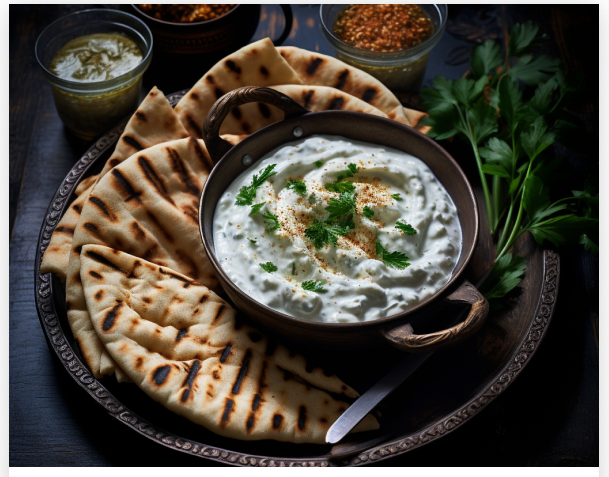
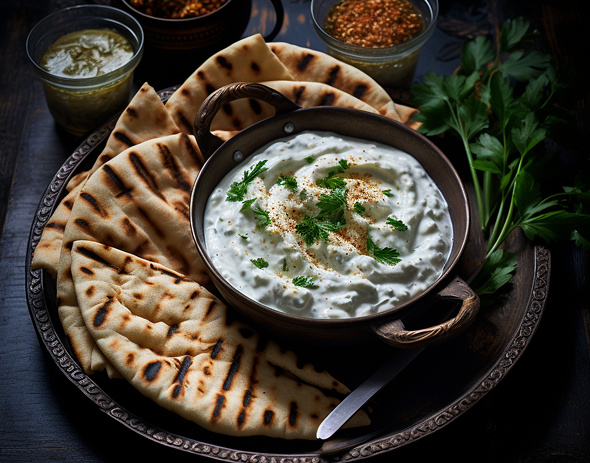
added clickability to the map in the contacts block and dynamic menu population with category‑based switching. fixed the display of review cards and the book now button.

diff --git a/menu/index.html b/menu/index.html
@@ -13,6 +13,7 @@
     <link rel="stylesheet" href="../style/fonts.css">
     <link rel="stylesheet" href="../style/home.css">
     <link rel="stylesheet" href="../style/menu.css">
+    <script src="https://ajax.googleapis.com/ajax/libs/jquery/3.7.1/jquery.min.js"></script>
 </head>
 <body>
     <header>
@@ -46,7 +47,7 @@
                     <p class="menu__item-title"></p>
                     <p class="menu__item-price"></p>
                 </figcaption>
-                <p class="menu__item-price" data-details="" data-kcal="">Подробнее</p>
+                <button type="button" class="menu__item-button" data-details="" data-kcal="">Подробнее</button>
             </div>
         </figure>
     </template>
@@ -55,71 +56,12 @@
         <section class="menu">
             <a class="menu__booking" href="../contact/index.html"></a>
             <div class="menu__navigation" id="topMenu">
-                <a class="menu__anchor" href="#">Основные блюда</a>
-                <a class="menu__anchor" href="#">Закуски и салаты</a>
-                <a class="menu__anchor" href="#">Десерты</a>
+                <a class="menu__anchor" href="?cat=mainCourse" data-cat="mainCourse">Основные блюда</a>
+                <a class="menu__anchor" href="?cat=salad" data-cat="salad">Закуски и салаты</a>
+                <a class="menu__anchor menu__anchor--disabled" data-cat="dessert" href="?cat=dessert">Десерты</a>
             </div>
-            <div class="menu__items">
-                <figure class="menu__item">
-                    <img class="menu__item-image" src="../assets/gallery/menu/d/17.png">
-                    <div class="menu__item-bottom">
-                        <figcaption class="menu__item-text">
-                            <p class="menu__item-title">Тыквенное наслаждение</p>
-                            <p class="menu__item-price">500₽</p>
-                        </figcaption>
-                        <button type="button" class="menu__item-button" data-details="Утонченный торт, гелато, эспрессо, пряные семечки и свежая земляника в гармонии в каждом кусочке." data-kcal="450">Подробнее</button>
-                    </div>
-                </figure>
-                <figure class="menu__item">
-                    <img class="menu__item-image" src="../assets/gallery/menu/d/16.png">
-                    <div class="menu__item-bottom">
-                        <figcaption class="menu__item-text">
-                            <p class="menu__item-title">Шоколадная симфония</p>
-                            <p class="menu__item-price">350₽</p>
-                        </figcaption>
-                        <button type="button" class="menu__item-button" data-details="Насладитесь роскошью шоколадного оливкового торта, смешанного с нежным лавандовым семифреддо, карамелизированным медом и взбитым кремом с оливковым маслом." data-kcal="550">Подробнее</button>
-                    </div>
-                </figure>
-                <figure class="menu__item">
-                    <img class="menu__item-image" src="../assets/gallery/menu/d/15.png">
-                    <div class="menu__item-bottom">
-                        <figcaption class="menu__item-text">
-                            <p class="menu__item-title">Тарт с кремом из кешью, карамельюи кумкватами</p>
-                            <p class="menu__item-price">500₽</p>
-                        </figcaption>
-                        <button type="button" class="menu__item-button" data-details="Роскошный тарт с кешью в карамельном масле, сопровождаемый свежестью цитрусового варенья, гелато с маслом из козьего молока и нежными маринованными кумкватами. В каждой порции - идеальное сочетание сладкого и освежающего." data-kcal="420">Подробнее</button>
-                    </div>
-                </figure>
-                <figure class="menu__item">
-                    <img class="menu__item-image" src="../assets/gallery/menu/d/14.png">
-                    <div class="menu__item-bottom">
-                        <figcaption class="menu__item-text">
-                            <p class="menu__item-title">Кокосовый крем-карамель с сливами и манго</p>
-                            <p class="menu__item-price">450₽</p>
-                        </figcaption>
-                        <button type="button" class="menu__item-button" data-details="Нежный кокосовый крем-карамель, дополненный сочными сливами и ароматным манго, завершается карамелизованным кокосовым хрустом. Это блюдо - путешествие в тропический рай, где каждый вкус - настоящее наслаждение." data-kcal="380">Подробнее</button>
-                    </div>
-                </figure>
-                <figure class="menu__item">
-                    <img class="menu__item-image" src="../assets/gallery/menu/d/33.png">
-                    <div class="menu__item-bottom">
-                        <figcaption class="menu__item-text">
-                            <p class="menu__item-title">Жареное мороженое с мусом из свежих ягод</p>
-                            <p class="menu__item-price">400₽</p>
-                        </figcaption>
-                        <button type="button" class="menu__item-button" data-details="Насладитесь уникальным десертом - жареным мороженым с мусом из свежих ягод, который мы создали для настоящих гурманов. Каждый кусочек хрустящей оболочки мороженого, сливается с ароматным мусом из отборных ягод, придают этому блюду невероятный вкусовой аккорд." data-kcal="380">Подробнее</button>
-                    </div>
-                </figure>
-                <figure class="menu__item">
-                    <img class="menu__item-image" src="../assets/gallery/menu/d/34.png">
-                    <div class="menu__item-bottom">
-                        <figcaption class="menu__item-text">
-                            <p class="menu__item-title">Медовая пахлава с грецкими орехами</p>
-                            <p class="menu__item-price">550₽</p>
-                        </figcaption>
-                        <button type="button" class="menu__item-button" data-details="Погрузитесь в восточные вкусы с нашей медовой пахлавой, усыпанной ароматными грецкими орехами. Каждый слой тонкого теста пропитан натуральным медом, а щедрая порция орехов добавляет этому десерту особый вкус и хрустящую текстуру." data-kcal="380">Подробнее</button>
-                    </div>
-                </figure>
+            <div class="menu__items"  id="menuItems">
+                
             </div>
         </section>
     </main>
@@ -146,5 +88,6 @@
             </div>
         </div>
     </footer>
+    <script async src="index.js"></script>
 </body>
 </html>

diff --git a/index.html b/index.html
@@ -12,6 +12,7 @@
     <link rel="stylesheet" href="style/common.css">
     <link rel="stylesheet" href="style/fonts.css">
     <link rel="stylesheet" href="style/home.css">
+    <script src="https://ajax.googleapis.com/ajax/libs/jquery/3.7.1/jquery.min.js"></script>
 </head>
 <body>
     <header>
@@ -38,7 +39,7 @@
         
         <section class="intro">
             <h1 class="intro__header">Ресторан <span>«Эклектика»</span></h1>
-            <button class="intro__button btn-big">Забронировать онлайн</button>
+            <a href="contact/index.html" class="intro__button btn-big">Забронировать онлайн</a>
             <button class="intro__button-stock btn-big">Акция</button>
         </section>
     </header>
@@ -135,6 +136,57 @@
                             </p>
                         </figcaption>
                     </figure>
+                                        <figure class="reviews__item">
+                        <img class="reviews__image" 
+                             src="assets/reviews/reviewIgor.png" 
+                             alt="Фотография довольного посетителя">
+                        <figcaption class="reviews__content">
+                            <div class="reviews__content-up">
+                                <h3 class="reviews__user-name">Игорь Ковалев</h3>
+                                <div class="reviews__stars">
+                                    <img class="reviews__gray-star" src="assets/svg/gray-stars.svg" alt="Серые звезды">
+                                    <img class="reviews__star" src="assets/svg/star.svg" alt="Звезда">
+                                    <img class="reviews__star" src="assets/svg/star.svg" alt="Звезда">
+                                    <img class="reviews__star" src="assets/svg/star.svg" alt="Звезда">
+                                    <img class="reviews__star" src="assets/svg/star.svg" alt="Звезда">
+                                    <img class="reviews__star" src="assets/svg/star.svg" alt="Звезда">
+                                </div>
+                            </div>
+                            <p class="reviews__text">
+                                Провели здесь день рождения — атмосфера просто 
+                                великолепная. Персонал веселый и отзывчивый, кухня 
+                                порадовала. Особенно понравились закуски к пиву! 
+                                Обязательно будем возвращаться, чтобы попробовать 
+                                все блюда из меню.
+                            </p>
+                        </figcaption>
+                    </figure>
+                                        <figure class="reviews__item">
+                        <img class="reviews__image" 
+                             src="assets/reviews/reviewMarina.png" 
+                             alt="Фотография довольного посетителя">
+                        <figcaption class="reviews__content">
+                            <div class="reviews__content-up">
+                                <h3 class="reviews__user-name">Марина Соколова</h3>
+                                <div class="reviews__stars">
+                                    <img class="reviews__gray-star" src="assets/svg/gray-stars.svg" alt="Серые звезды">
+                                    <img class="reviews__star" src="assets/svg/star.svg" alt="Звезда">
+                                    <img class="reviews__star" src="assets/svg/star.svg" alt="Звезда">
+                                    <img class="reviews__star" src="assets/svg/star.svg" alt="Звезда">
+                                    <img class="reviews__star" src="assets/svg/star.svg" alt="Звезда">
+                                    <img class="reviews__star" src="assets/svg/star.svg" alt="Звезда">
+                                </div>
+                            </div>
+                            <p class="reviews__text">
+                                Посетили семейный ресторан с подругами на девичнике, 
+                                и это был наш лучший выбор! У нас был волшебный 
+                                вечер — вкусная еда, отличные коктейли и веселая 
+                                атмосфера. Обязательно вернемся сюда с мужьями! 
+                                Очень рекомендую для дружеских посиделок и 
+                                праздников.
+                            </p>
+                        </figcaption>
+                    </figure>
                 </div>
                 <button class="reviews__button reviews__button--prev">
                     <img src="assets/svg/big-left-arrow.svg" alt="Стрелка влево">
@@ -160,7 +212,7 @@
                         <a class="contacts__anchor" href="tel:+79110000080">+7 (911) 000-00-80</a>
                     </p>
                 </div>
-                <button class="contacts__button btn-big">Забронировать онлайн</button>
+                <a href="contact/index.html" class="contacts__button btn-big">Забронировать онлайн</a>
             </div>
         </article>
     </main>

diff --git a/contact/index.html b/contact/index.html
@@ -13,6 +13,7 @@
     <link rel="stylesheet" href="../style/fonts.css">
     <link rel="stylesheet" href="../style/home.css">
     <link rel="stylesheet" href="../style/contact.css">
+    <script src="https://ajax.googleapis.com/ajax/libs/jquery/3.7.1/jquery.min.js"></script>
 </head>
 <body>
     <header>
@@ -76,7 +77,7 @@
                     <input class="booking__input" type="email" placeholder="Почта" name="email">
                     <fieldset class="booking__form-item">
                         <button class="booking__button-quantity booking__button-quantity--minuses" type="button">-</button>
-                        <input class="booking__form-data" type="text" value="1" disabled>
+                        <input class="booking__form-data" name="num_guests" type="text" value="1" readonly>
                         <button class="booking__button-quantity booking__button-quantity--plus" type="button">+</button>
                         Количество гостей
                     </fieldset>
@@ -90,7 +91,9 @@
         </article>
 
         <article class="contacts contacts--reverse">
-            <img class="contacts__image" src="../assets/gallery/contact/map.png" alt="Повара на кухне">
+            <a class="contacts__wrapper-img" href="https://yandex.ru/maps/org/eklektika/215111219733/?ll=30.375579%2C59.979897&z=14.13">
+                <img class="contacts__image contacts__image--reverse" src="../assets/gallery/contact/map.png" alt="Карта">
+            </a>
             <div class="contacts__right contacts__right--revers">
                 <div class="contacts__content contacts__content--reverse">
                     <h2 class="contacts__header">Мы ценим, что вы выбрали наш ресторан и обещаем сделать ваш визит незабываемым!</h2>

diff --git a/style/home.css b/style/home.css
@@ -98,10 +98,15 @@
 
 /*intro*/
 .intro {
+    display: flex;
+    flex-direction: column;
+    align-items: center;
+    justify-content: center;
     padding-top: 200px;
     background-color: var(--blur-bckg);
     color: var(--text);
     text-align: center;
+    padding-bottom: 300px;
 }
 
 .intro__header {
@@ -112,10 +117,6 @@
 .intro__header span {
     text-transform: uppercase;
     display: block;
-}
-
-.intro__button  {
-    margin-bottom: 300px;
 }
 
 .intro__button-stock {
@@ -275,11 +276,13 @@
 .reviews__items {
     display: flex;
     gap: 35px;
+    overflow: hidden;
 }
 
 .reviews__item {
+    width: 35vw;
+    flex-shrink: 0;
     position: relative;
-    flex: 1;
     padding: 1.6vw 2.9vw 2vw 1.4vw;
     background-color: white;
     display: flex;
@@ -344,6 +347,10 @@
         gap: 7px;
     }
 
+    .reviews__item {
+        width: 38vw;
+    }
+
     .reviews__container {
         width: 80vw;
     }
@@ -404,6 +411,7 @@
     }
 
     .reviews__item {
+        width: 100%;
         padding: 26px 17px 29px 23px;
     }
 
@@ -434,6 +442,15 @@
 .contacts__image {
     object-fit: cover;
     width: 50%;
+}
+
+.contacts__wrapper-img {
+    width: 50%;
+}
+
+.contacts__image--reverse {
+    width: 100%;
+    height: 100%;
 }
 
 .contacts__right {
@@ -488,6 +505,10 @@
 @media(max-width: 900px) {
     .contacts {
         flex-direction: column;
+    }
+
+    .contacts__wrapper-img {
+        width: 100%;
     }
 
     .contacts__image {

diff --git a/menu/index.js b/menu/index.js
@@ -1,0 +1,35 @@
+async function init() {
+    let category = new URL(document.location).searchParams.get('cat') ?? 'dessert';
+
+    const anchors = document.querySelectorAll('.menu__anchor');
+    anchors.forEach(anchor => {
+        const cat = anchor.dataset.cat;
+        if(cat === category) {
+            anchor.classList.add('menu__anchor--disabled');
+        } else {
+            anchor.classList.remove('menu__anchor--disabled');
+        }
+    })
+
+    const res = await fetch(`${category}.json`)
+    if(res.ok) {
+        const data = await res.json();
+        const template = document.getElementById('menuItemCard');
+
+        for(const itemInfo of data){
+            let card = template.content.cloneNode(true);
+            card.querySelector('.menu__item-image').setAttribute('src', itemInfo['pic']);
+            card.querySelector('.menu__item-button').dataset.details = itemInfo['details'];
+            card.querySelector('.menu__item-button').dataset.kcal = itemInfo['kcal'];
+            card.querySelector('.menu__item-title').textContent = itemInfo['name'];
+            card.querySelector('.menu__item-price').textContent = itemInfo['price'];
+            document.getElementById('menuItems').appendChild(card);
+        }
+    } else {
+        document.location.href = '/menu';
+    }
+    
+    
+}
+
+init();

diff --git a/style/menu.css b/style/menu.css
@@ -48,6 +48,11 @@
     border-radius: 10px;
 }
 
+.menu__anchor--disabled {
+    background: white;
+    color: black;
+}
+
 .menu__anchor:not(:last-child) {
     margin-right: 20px;
 }
@@ -90,9 +95,14 @@
 }
 
 .menu__item-price {
+    position: relative;
     font-size: clamp(14px, 1.8vw, 28px);
     font-weight: bold;
     float: right;
+}
+
+.menu__item-price::after {
+ content: '₽';
 }
 
 .menu__item-title, .menu__item-price {

diff --git a/style/common.css b/style/common.css
@@ -48,6 +48,9 @@ header {
 }
 
 .btn-big {
+    display: flex;
+    align-items: center;
+    justify-content: center;
     width: 420px;
     height: 80px;
     background: var(--button);
